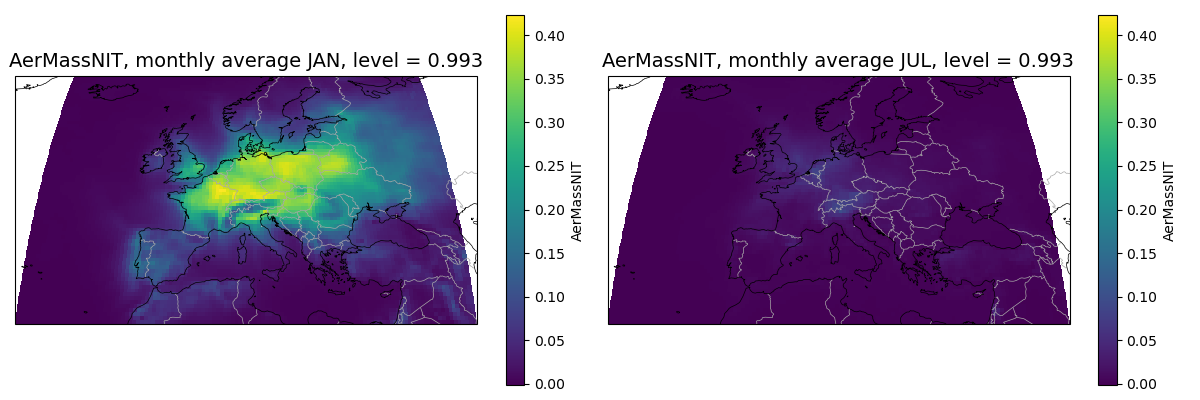
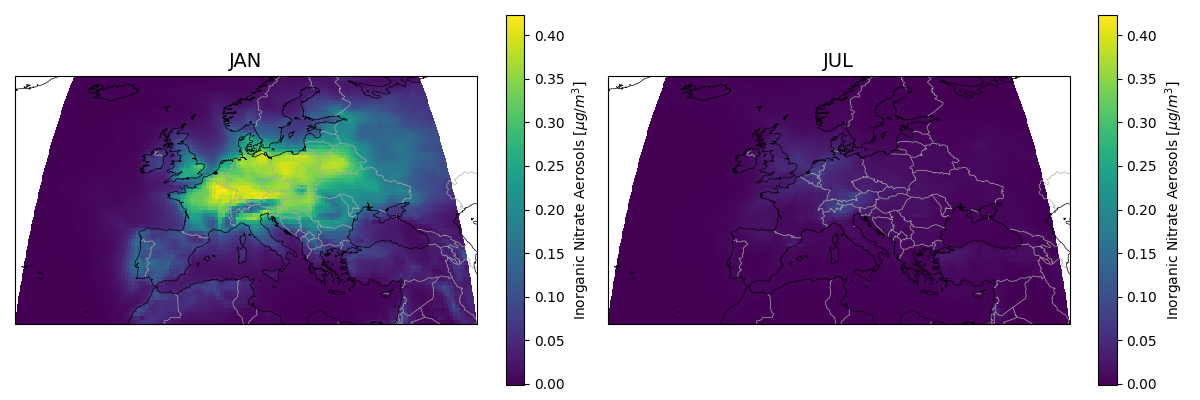
fixed typo "emittants" --> "emissions" changed pollutant plot titles.

diff --git a/division_processing/pollutants_europe.py b/division_processing/pollutants_europe.py
@@ -3,27 +3,66 @@ import matplotlib.pyplot as plt
 import cartopy.crs as ccrs
 import cartopy.feature as cfeature
 import numpy as np
+import os
 from utils import differencer
 # Types and variables that will be plotted
-types = {'Aerosol': ['PM25', 'AerMassNIT', 'AerMassNH4', 'AerMassPOA', 'AerMassBC', 'AerMassSO4'],
-                  'O3' : ['SpeciesConc_O3'],
-                  'NO2' : ['SpeciesConc_NO2']}
-               
+types = {
+    "Aerosol": {
+        "PM25": {
+            "emittants": ["NO2"],
+            "unit": 1,
+            "name": r'PM$_{2.5} \:$'
+        },
+        "AerMassNIT": {
+            "emittants": ["NO2"],
+            "unit": 1,  # Example, adjust as needed
+            "name": r'Inorganic Nitrate Aerosols'
+        },
+        "AerMassSO4":{
+            "emittants": ["FUELBURN"],
+            "unit": 1,
+            "name": r"Sulfate Aerosol"
+        }
+        # 'AerMassNH4': ['NO2'],
+        # 'AerMassPOA': ['nvPM', 'HC'],
+        # 'AerMassBC': ['nvPM']
+    },
+    # "Aerosol2": {
+    #     "AerMassNIT": ["NO2"]
+    # },
+    "O3": {
+        "SpeciesConc_O3": {
+            "emittants": ["NO2", "HC", "CO"],
+            "unit": 44.6 * 48 * 1e6,
+            "name": r'O$_3 \:$'
+        }
+    },
+    "NO2": {
+        "SpeciesConc_NO2": {
+            "emittants": ["NO2"],
+            "unit": 44.6 * 46.01 * 1e6,
+            "name": r'NO$_2 \:$'
+        }
+    },
+}
+
 # --------------------------------------------------------------------------------------------------------------------
 # Starting of the preprocessing, no need to modify anything after this
 
 months = ['JAN', 'JUL']
 
 # For loop to iterate through each type and through each variable withing each type
-for type in types:
-    for var in types[type]:
+for type_, vars in types.items():
+    for var, properties in vars.items():
+        unit = properties["unit"]
+        name = properties["name"]
         fig, ax = plt.subplots(1, 2, figsize= [12, 4], subplot_kw={"projection": ccrs.EqualEarth(central_longitude=10)})
         plt.tight_layout()
 
         daSurf = [[],[]]
         for i, month in enumerate(months):
 
-            daSurf[i] = differencer(type, month, var)
+            daSurf[i] = differencer(type_, month, var) * unit
 
             if i==0:
                 vmin = float(daSurf[i].values.min())
@@ -38,13 +77,13 @@ for type in types:
             ax[i].coastlines(resolution='50m', linewidth=0.5, color='black')
 
             # Plot the data for the current time step
-            daSurf[i].plot(ax=ax[i], transform=ccrs.PlateCarree(), vmin=vmin, vmax=vmax)
+            daSurf[i].plot(ax=ax[i], transform=ccrs.PlateCarree(), vmin=vmin, vmax=vmax, cbar_kwargs ={"label": name +r" [$\mu g /  m^3$]"})
 
             # Add a title with the current time
-            ax[i].set_title(f"{var}, monthly average {month}, level = {np.round(daSurf[i].lev.values, 3)}", fontsize=14)
+            ax[i].set_title(month, fontsize=14)
         
        
-        # plt.savefig(os.path.join(os.path.dirname(__file__), '..', 'division_processing', 'pollutants_figures',f'{type}_{var}_timeaveraged.png'))
+        plt.savefig(os.path.join(os.path.dirname(__file__), '..', 'division_processing', 'pollutants_figures',f'{type_}_{var}_timeaveraged.png'))
         
 # Uncomment to display the plots on screen
-plt.show()
+# plt.show()

diff --git a/division_processing/scatter_log_europe.py b/division_processing/scatter_log_europe.py
@@ -172,7 +172,7 @@ for type_, vars in types.items():
             ax[i].scatter(top_neg_sens_emittants, top_neg_sens_pollutants, color='tab:red', alpha=0.1, label= f"Negative ({ifpercen})", marker="^")
             ax[i].scatter(peasant_neg_sens_emittants, peasant_neg_sens_pollutants, color='tab:orange', alpha=0.1, label= "Negative")
             # ax[i].set_title(f"{var}, monthly average {month}", fontsize=14)
-            ax[i].set_xlabel(r"Emittants [kg/year]")
+            ax[i].set_xlabel(r"Emissions [kg/year]")
             ax[i].set_ylabel(name + r' [$\mu g /  m^3$]')
             ax[i].set_xscale('log')
             ax[i].set_yscale('log')
